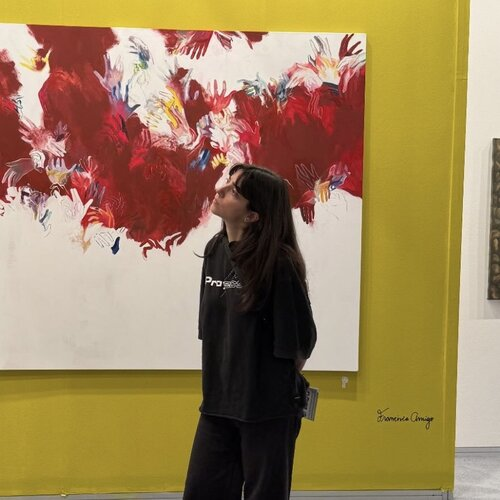
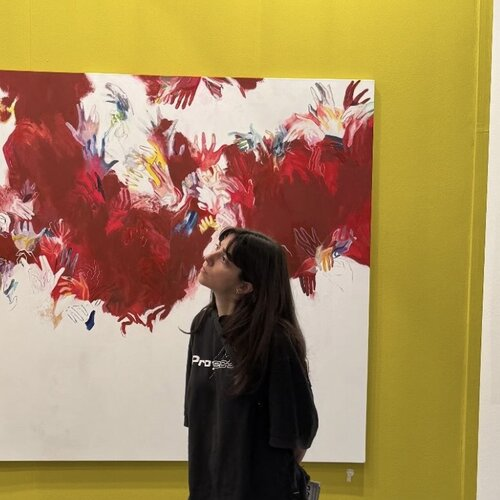
photo update vol 2

diff --git a/about.html b/about.html
@@ -31,7 +31,7 @@
     <section style="padding-top: var(--space-lg);">
       <div class="container about-grid">
         <div>
-          <div class="avatar-frame" style="background-image: url('images/about-photo.jpg?v=2');"></div>
+          <div class="avatar-frame" style="background-image: url('images/about-photo.jpg?v=3');"></div>
         </div>
 
         <div>
